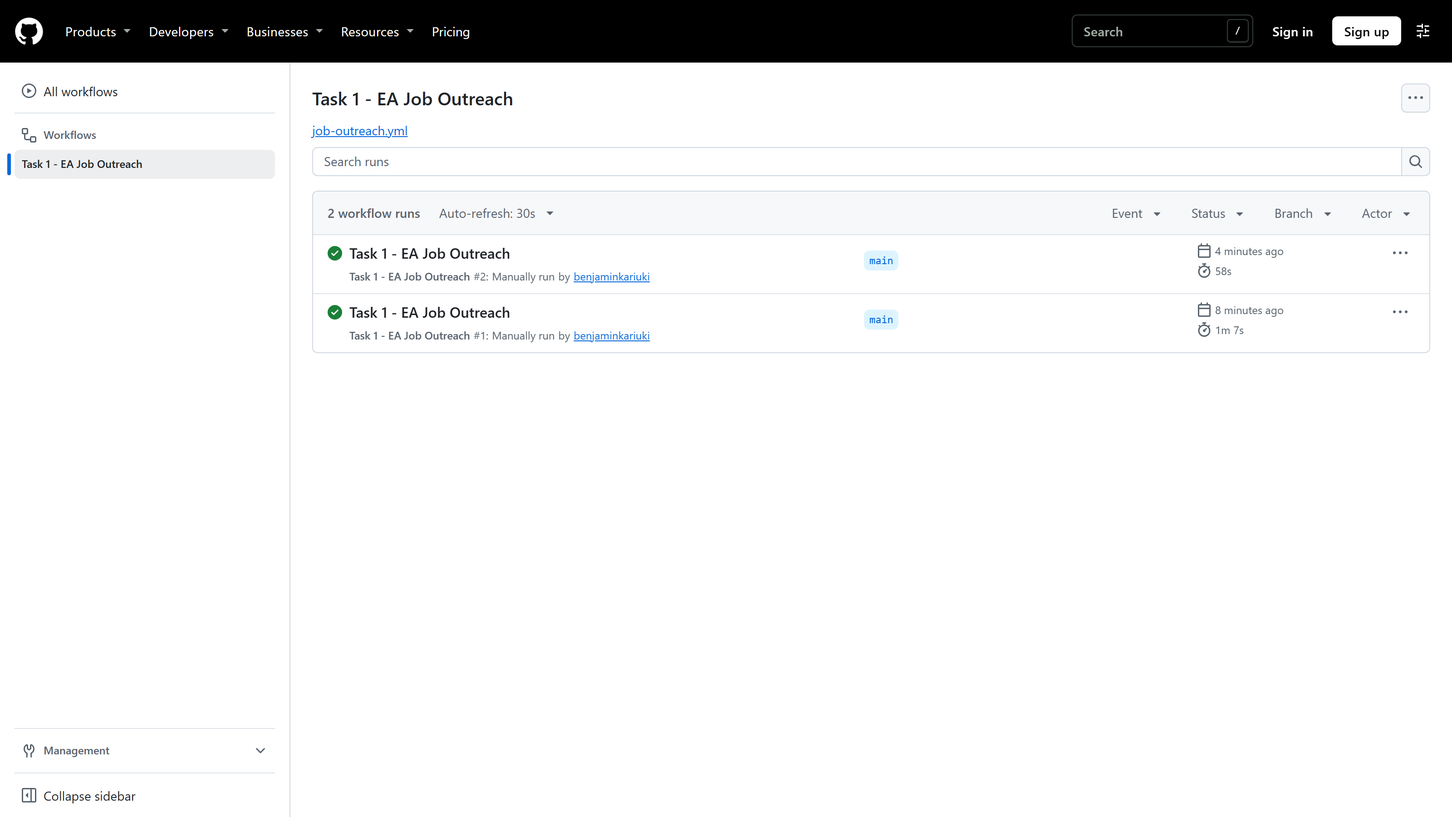
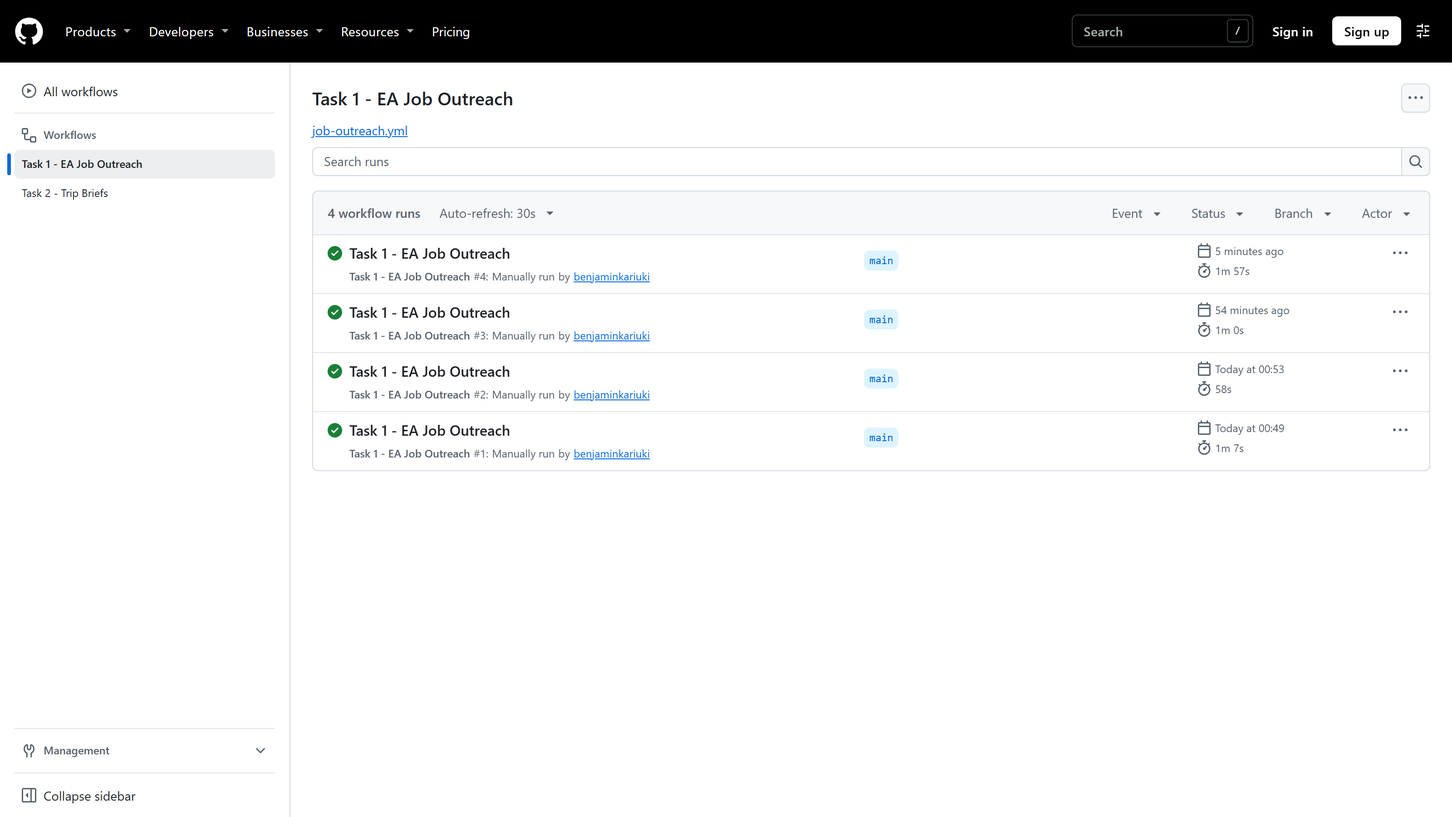
Docs: requirement-by-requirement check, READMEs (23 trips, contact), refreshed screenshots, PDF source

diff --git a/submission/submission.html b/submission/submission.html
@@ -4,118 +4,188 @@
 <meta charset="utf-8">
 <title>RAY Case Study – Benjamin Kariuki</title>
 <style>
-  @page { size: A4; margin: 16mm 15mm 16mm 15mm; }
+  @page { size: A4; margin: 15mm 15mm 16mm 15mm; }
   :root { --ink:#1b2333; --muted:#5b6475; --line:#dfe3ea; --accent:#1f4e8c; --soft:#f3f6fa; --ok:#1d7a46; }
   * { box-sizing: border-box; }
-  body { font-family: "Segoe UI", Inter, Arial, sans-serif; color: var(--ink); font-size: 10.2pt; line-height: 1.45; margin: 0; }
+  body { font-family: "Segoe UI", Inter, Arial, sans-serif; color: var(--ink); font-size: 10pt; line-height: 1.45; margin: 0; }
   h1 { font-size: 21pt; margin: 0 0 2px; letter-spacing: -0.3px; }
-  h2 { font-size: 14.5pt; margin: 0 0 8px; padding-bottom: 5px; border-bottom: 2px solid var(--accent); color: var(--accent); }
-  h3 { font-size: 11pt; margin: 14px 0 6px; }
+  h2 { font-size: 15pt; margin: 0 0 8px; padding-bottom: 5px; border-bottom: 2.5px solid var(--accent); color: var(--accent); }
+  h3 { font-size: 11pt; margin: 13px 0 5px; }
   p { margin: 0 0 7px; }
   a { color: var(--accent); text-decoration: none; word-break: break-all; }
-  .sub { color: var(--muted); margin-bottom: 14px; }
-  .links { background: var(--soft); border: 1px solid var(--line); border-radius: 8px; padding: 10px 14px; margin: 10px 0 16px; }
-  .links table td { padding: 3px 8px 3px 0; vertical-align: top; }
-  .links td:first-child { font-weight: 600; white-space: nowrap; width: 150px; }
-  table.grid { width: 100%; border-collapse: collapse; margin: 4px 0 10px; font-size: 9.4pt; }
+  code { font-family: Consolas, monospace; font-size: 8.8pt; background: #eef1f6; padding: 0 3px; border-radius: 3px; }
+  .sub { color: var(--muted); margin-bottom: 12px; }
+  .box { background: var(--soft); border: 1px solid var(--line); border-radius: 8px; padding: 9px 13px; margin: 8px 0 12px; }
+  .links td { padding: 2.5px 8px 2.5px 0; vertical-align: top; }
+  .links td:first-child { font-weight: 600; white-space: nowrap; width: 175px; }
+  table.grid { width: 100%; border-collapse: collapse; margin: 4px 0 10px; font-size: 8.9pt; }
   table.grid th { background: var(--ink); color: #fff; text-align: left; padding: 5px 7px; font-weight: 600; }
-  table.grid td { border-bottom: 1px solid var(--line); padding: 5px 7px; vertical-align: top; }
+  table.grid td { border-bottom: 1px solid var(--line); padding: 4.5px 7px; vertical-align: top; }
   table.grid tr:nth-child(even) td { background: #fafbfd; }
   .tick { color: var(--ok); font-weight: 700; }
   ul { margin: 0 0 8px 18px; padding: 0; } li { margin-bottom: 3px; }
   .shot { width: 100%; border: 1px solid var(--line); border-radius: 6px; margin: 4px 0 2px; }
-  .cap { color: var(--muted); font-size: 8.6pt; margin-bottom: 10px; }
+  .cap { color: var(--muted); font-size: 8.5pt; margin-bottom: 10px; }
+  .two { display: flex; gap: 12px; align-items: flex-start; }
+  .two > div { flex: 1; }
+  .phone { width: 100%; max-width: 230px; border: 1px solid var(--line); border-radius: 14px; }
   .stats { display: flex; gap: 8px; margin: 6px 0 10px; }
-  .stat { flex: 1; border: 1px solid var(--line); border-radius: 8px; padding: 7px 9px; background: var(--soft); }
-  .stat b { display: block; font-size: 15pt; color: var(--accent); }
-  .stat span { font-size: 8.6pt; color: var(--muted); }
-  .msg { white-space: pre-wrap; font-size: 8.9pt; background: var(--soft); border-left: 3px solid var(--accent); padding: 8px 10px; border-radius: 4px; }
+  .stat { flex: 1; border: 1px solid var(--line); border-radius: 8px; padding: 6px 9px; background: var(--soft); }
+  .stat b { display: block; font-size: 14pt; color: var(--accent); }
+  .stat span { font-size: 8.4pt; color: var(--muted); }
+  .flow { font-family: Consolas, monospace; font-size: 8.6pt; background: #f7f9fc; border: 1px solid var(--line); border-radius: 6px; padding: 8px 10px; white-space: pre; line-height: 1.5; }
   .page-break { break-before: page; }
   h2, h3 { break-after: avoid; }
-  tr, .shot, .stats, .msg, li { break-inside: avoid; }
+  tr, .shot, .stats, .flow, .box, li, .two { break-inside: avoid; }
   .muted { color: var(--muted); }
 </style>
 </head>
 <body>
 
 <h1>RAY – AI Automation Engineer Case Study</h1>
-<div class="sub">Benjamin Kariuki · November 2026</div>
+<div class="sub">Benjamin Kariuki · <a href="mailto:benjaminleyian50@gmail.com">benjaminleyian50@gmail.com</a> · November 2026</div>
 
-<div class="links">
+<div class="box links">
   <table>
     <tr><td>Code repository</td><td><a href="https://github.com/benjaminkariuki/ray-ai-automation-case-study">github.com/benjaminkariuki/ray-ai-automation-case-study</a></td></tr>
     <tr><td>Task 1 – Google Sheet</td><td><a href="https://docs.google.com/spreadsheets/d/1GwAt8R3_O-h6ivZ_CT_8yD6GMIdybyf2-YgscTQ9hRI">docs.google.com/spreadsheets/d/1GwAt8R3_O-h6ivZ_CT_8yD6GMIdybyf2-YgscTQ9hRI</a></td></tr>
-    <tr><td>Task 1 – n8n workflow export</td><td><a href="https://github.com/benjaminkariuki/ray-ai-automation-case-study/blob/main/task1-job-outreach/workflow/job-outreach-workflow.json">task1-job-outreach/workflow/job-outreach-workflow.json</a></td></tr>
-    <tr><td>Task 1 – README / user guide</td><td><a href="https://github.com/benjaminkariuki/ray-ai-automation-case-study/tree/main/task1-job-outreach">task1-job-outreach/README.md</a></td></tr>
-    <tr><td>Task 1 – Sample output</td><td><a href="https://github.com/benjaminkariuki/ray-ai-automation-case-study/tree/main/task1-job-outreach/sample-output">task1-job-outreach/sample-output</a> (CSV + JSON)</td></tr>
-    <tr><td>Task 2 – Notion</td><td class="muted">Added in the next section</td></tr>
+    <tr><td>Task 1 – Run history</td><td><a href="https://github.com/benjaminkariuki/ray-ai-automation-case-study/actions/workflows/job-outreach.yml">GitHub Actions: daily runs at 06:00 UTC</a></td></tr>
+    <tr><td>Task 1 – README</td><td><a href="https://github.com/benjaminkariuki/ray-ai-automation-case-study/tree/main/task1-job-outreach">task1-job-outreach/README.md</a></td></tr>
+    <tr><td>Task 1 – Sample output</td><td><a href="https://github.com/benjaminkariuki/ray-ai-automation-case-study/tree/main/task1-job-outreach/sample-output/latest">sample-output/latest</a> (console log, JSON, CSV of the newest run)</td></tr>
+    <tr><td>Task 2 – Notion (public)</td><td><a href="NOTION_PUBLIC_URL">NOTION_PUBLIC_URL_TEXT</a></td></tr>
+    <tr><td>Task 2 – README</td><td><a href="https://github.com/benjaminkariuki/ray-ai-automation-case-study/tree/main/task2-travel-planner">task2-travel-planner/README.md</a></td></tr>
+    <tr><td>Requirement checklist</td><td><a href="https://github.com/benjaminkariuki/ray-ai-automation-case-study/blob/main/REQUIREMENTS_CHECK.md">REQUIREMENTS_CHECK.md</a>: every line of the brief, how it's met, where to verify it</td></tr>
   </table>
 </div>
 
 <h2>Task 1 – Executive Assistant Job Outreach Automation</h2>
 
 <h3>What I built</h3>
-<p>I built an <b>n8n workflow</b>, self-hosted on Azure with HTTPS. It runs <b>every day at 06:00 UTC</b>:</p>
+<p>A <b>Python pipeline</b>, run <b>every day at 06:00 UTC by GitHub Actions</b>, so no server of our own is needed. Each run:</p>
 <ul>
-  <li>It pulls Executive Assistant and Admin Assistant postings from the public APIs of three job boards: <b>Himalayas, RemoteOK and Jobicy</b>. LinkedIn is not used.</li>
-  <li>An LLM (via <b>OpenRouter</b>, free models) checks that each posting is <b>remote, English-speaking and relevant</b>, and that it isn't a staffing agency.</li>
-  <li>A second LLM call writes a <b>personalised outreach email</b> for each match.</li>
-  <li>Everything goes into a <b>Google Sheet that sales reps use as their dashboard</b>.</li>
+  <li><b>Searches three job boards</b> (Himalayas, RemoteOK and Jobicy) through their official public APIs. LinkedIn is not used.</li>
+  <li><b>Checks each new posting with an LLM</b>: is it remote, English-speaking and relevant to an Executive or Admin Assistant? A job must pass all three to be kept.</li>
+  <li><b>Writes a personalised outreach email</b> for each match.</li>
+  <li><b>Fills a Google Sheet</b> that sales reps use as their dashboard.</li>
 </ul>
-<p>Filters, AI models and prompts are all <b>edited in the Sheet</b>, so tone can be tested without touching the workflow.</p>
+<p>Search terms, filters, AI models and prompts are all edited <b>in the Sheet</b>, so tone can be tested without touching code.</p>
 
-<img class="shot" src="../task1-job-outreach/docs/images/n8n-workflow.png" alt="n8n workflow">
-<div class="cap">The n8n workflow (33 nodes, 4 colour-coded stages): trigger and settings, fetch and filter, AI check and outreach, log and save.</div>
+<div class="flow">GitHub Actions (daily 06:00 UTC, or "Run workflow")  →  python -m job_outreach
+  1  Read Settings + Prompts + already-processed URLs from the Google Sheet
+  2  Fetch: Himalayas · RemoteOK · Jobicy   →  every posting gets title, company, location, description, URL, languages
+  3  Rule filter: title keywords · excluded companies/agencies · max age · duplicates        (no AI cost)
+  4  AI check per new job  →  JSON {remote, English, relevant, agency, languages, reason}
+  5  AI outreach email for each job that passes all three
+  6  Write Leads + Rejected, then the Run Log row  ·  save JSON / CSV / console log  ·  verify the live Sheet
+  AI: OpenRouter (primary)  ──fails or hits its limit──►  Cloudflare Workers AI (backup)  ──both fail──►  retried next run</div>
 
-<h3 class="page-break">How each requirement is met</h3>
+<h3>Requirements, as written in the brief</h3>
 <table class="grid">
-  <tr><th style="width:24%">Requirement</th><th>How it's met</th></tr>
-  <tr><td><span class="tick">✓</span> Compliant, non-LinkedIn source</td><td>Three official public APIs (Himalayas, RemoteOK, Jobicy), with no HTML scraping. Each lead links to the original posting and names its source, as the boards' terms ask.</td></tr>
-  <tr><td><span class="tick">✓</span> Fields collected and stored</td><td>Job Title, Company, Location, Description, URL and Language Requirements, plus Source and Date Posted. Stored in the Sheet and as a <b>JSON file per run</b>; CSV exports are in the repo.</td></tr>
-  <tr><td><span class="tick">✓</span> Filter and validate (all 3)</td><td>A keyword, company and age pre-filter runs first. Then the LLM returns strict JSON: <code>is_remote</code>, <code>is_english</code>, <code>is_relevant</code>, <code>is_agency</code> and a reason. Only jobs passing all three checks are kept. Rejections are logged with the reason so they can be audited.</td></tr>
-  <tr><td><span class="tick">✓</span> Personalised LLM message</td><td>Each email cites specific duties or tools from that posting. The prompt allows facts about the company only from the posting, and facts about us only from the "About us" setting.</td></tr>
-  <tr><td><span class="tick">✓</span> Interchangeable prompt</td><td>Prompts live in the Sheet's <b>Prompts</b> tab. Changing <code>Settings → outreach_prompt</code> (for example <code>v1_warm</code> → <code>v2_direct</code>) switches the tone on the next run, and each lead records the <b>Prompt Used</b>.</td></tr>
-  <tr><td><span class="tick">✓</span> Google Sheets columns</td><td>The Leads tab has the 6 required columns in order, then Language, Source, Dates, Prompt Used, <b>Status</b> (a dropdown) and Notes.</td></tr>
-  <tr><td><span class="tick">✓</span> Scheduling</td><td>An n8n Schedule Trigger runs daily at 06:00 UTC on an always-on Azure VM. There's also a manual Execute button.</td></tr>
-  <tr><td><span class="tick">✓</span> README / user guide</td><td>Covers install (existing n8n, or one-command Azure deploy), running, changing filters and prompts, troubleshooting, and a guide for sales reps. A short guide is also built into the Sheet.</td></tr>
+  <tr><th style="width:30%">Brief</th><th>How it's met</th></tr>
+  <tr><td><span class="tick">✓</span> Compliant, non-LinkedIn job board</td><td>3 official public APIs, with no HTML scraping. Each row keeps the original URL and source name (the boards ask for a link back), and requests are paced.</td></tr>
+  <tr><td><span class="tick">✓</span> Collect title, company, location, description, URL and language requirements for each posting</td><td>All six fields for <b>every</b> scraped posting. Language requirements come from rules for every posting and are refined by the AI for checked jobs.</td></tr>
+  <tr><td><span class="tick">✓</span> Store in a structured format</td><td>Each run saves <b>JSON</b> (every posting and AI decision), <b>CSV</b> (all postings, leads, rejections) and a console <b>log</b>, plus the Google Sheet.</td></tr>
+  <tr><td><span class="tick">✓</span> Remote + English + relevant; keep only postings meeting all three</td><td>The LLM returns strict JSON with a reason. Only all-three passes become leads; the rest go to the <b>Rejected</b> tab with Yes/No per check. Staffing and VA agencies (competitors) are also excluded, which is configurable.</td></tr>
+  <tr><td><span class="tick">✓</span> Genuinely personalised message per posting</td><td>Each message cites duties, tools or details from that posting. Facts about us come only from the Sheet's "About us" setting, so nothing is invented.</td></tr>
+  <tr><td><span class="tick">✓</span> Easily interchangeable prompt</td><td>Prompts live in the Sheet's <b>Prompts</b> tab, and changing <code>Settings → outreach_prompt</code> switches them. Each lead records <b>Prompt Used</b>; both <code>v1_warm</code> and <code>v2_direct</code> were tested live.</td></tr>
+  <tr><td><span class="tick">✓</span> Google Sheet columns</td><td>The 6 required columns come first, in order, then Language, Source, dates, Prompt Used, AI Model, <b>Status</b> (a dropdown) and Notes.</td></tr>
+  <tr><td><span class="tick">✓</span> Daily or weekly schedule</td><td>GitHub Actions, daily at 06:00 UTC; one edit makes it weekly. A "Run workflow" button runs it on demand.</td></tr>
+  <tr><td><span class="tick">✓</span> README: install, run, filters and prompt, troubleshooting, sales rep guide</td><td>All covered, plus a 5-minute evaluator guide. A short guide is also built into the Sheet.</td></tr>
 </table>
 
-<h3>Results from live test runs</h3>
+<div class="page-break"></div>
+<h3>Deliverables</h3>
+<table class="grid">
+  <tr><th style="width:30%">Deliverable</th><th>Where</th></tr>
+  <tr><td>Source code: scrape, validate, LLM, Sheets</td><td><code>sources.py</code> · <code>ai.py</code> + <code>prompts/</code> · <code>ai.py</code> · <code>sheet.py</code> + <code>setup_sheet.py</code>, in <code>task1-job-outreach/</code></td></tr>
+  <tr><td>Sample data output (CSV/JSON or console)</td><td>All three, in <code>sample-output/latest/</code>, refreshed automatically after every run</td></tr>
+  <tr><td>Scheduling setup</td><td><code>.github/workflows/job-outreach.yml</code>, documented in README section 5</td></tr>
+  <tr><td>README</td><td><code>task1-job-outreach/README.md</code></td></tr>
+  <tr><td>Populated Google Sheet</td><td>The link on page 1: leads, rejections with reasons, and run history</td></tr>
+</table>
+
+<h3>Results and testing</h3>
 <div class="stats">
-  <div class="stat"><b>264–359</b><span>postings fetched per run</span></div>
-  <div class="stat"><b>~55</b><span>pass the keyword filter</span></div>
-  <div class="stat"><b>15</b><span>new jobs checked by AI per run (configurable)</span></div>
-  <div class="stat"><b>10 leads</b><span>written in one run (GitLab, Pearson, Thrivent …)</span></div>
+  <div class="stat"><b>~340</b><span>postings fetched per run (3 boards)</span></div>
+  <div class="stat"><b>37</b><span>leads written, each with a personalised email</span></div>
+  <div class="stat"><b>36</b><span>rejections, each with a reason</span></div>
+  <div class="stat"><b>12/12</b><span>live Sheet checks pass after every run</span></div>
 </div>
-<img class="shot" src="../task1-job-outreach/docs/images/sheet-leads.png" alt="Leads tab">
-<div class="cap">The Leads tab in the Google Sheet: required columns, the AI-written message, and a Status dropdown for the sales rep.</div>
-
-<h3>Example of a generated message</h3>
-<div class="msg">Subject: GitLab Office of the CFO support
-
-I noticed you're looking for an Executive Assistant to support multiple Finance leaders across time zones, manage travel and expenses in Navan, and maintain shared Office of the CFO resources in Slack and Google Workspace. That mix of calendar complexity, policy-driven expense reconciliation, and cross-functional coordination is exactly what our assistants handle daily. …
-
-Would a 15-minute call this week be useful to see if we are a fit?</div>
-
-<h3>Key design decisions</h3>
 <ul>
-  <li><b>Cheap filter first, AI second.</b> Keyword rules remove about 85% of postings before any LLM call, so the workflow runs inside OpenRouter's free tier. A per-run cap protects the quota.</li>
-  <li><b>Agency detection.</b> Many remote EA postings come from VA and staffing agencies, which are competitors, not leads. They're excluded both by name and by the AI.</li>
-  <li><b>Reliability.</b> Jobs already in the Sheet are skipped, so there are no duplicates and no repeat AI cost. If an AI call fails (rate limit, outage), the job isn't saved and is retried automatically on the next run. A fallback model takes over when the main model is busy, and each job board fails independently of the others.</li>
-  <li><b>Transparency.</b> The <b>Rejected</b> tab shows Yes/No for each check with the AI's reason. The <b>Run Log</b> tab shows how many jobs were fetched, filtered, checked, added and errored on each run.</li>
-  <li><b>Editable by non-technical users.</b> Search terms, filters, models, sender details and prompts are all Sheet cells.</li>
+  <li><b>12 offline unit tests</b> (filtering, language detection, parsing, formatting, AI failover) run before every scheduled run.</li>
+  <li><b><code>verify_sheet.py</code></b> checks the live Sheet after every run: columns, no blanks, no duplicates, sources, personalised and unique messages, rejection logic, freshness. It needs no login, so anyone can run it.</li>
+  <li><b>Tested live:</b>
+    <ul>
+      <li>OpenRouter's limit ran out mid-test, and Cloudflare took over with 0 errors.</li>
+      <li>The prompt was swapped from the Sheet.</li>
+      <li>Duplicates were skipped.</li>
+      <li>Dry run.</li>
+    </ul>
+  </li>
+  <li><b>Problems found and fixed during testing:</b>
+    <ul>
+      <li>The model invented details (a language skill, tool expertise).</li>
+      <li>An incomplete AI answer caused a false rejection; it's now retried instead.</li>
+      <li>"Must work Eastern Time hours" was wrongly judged non-remote.</li>
+    </ul>
+  </li>
 </ul>
+<img class="shot" src="../task1-job-outreach/docs/images/sheet-leads.png" alt="Leads tab">
+<div class="cap">The Leads tab: the six required columns first, then the AI-written message, language requirements, source, prompt used, AI model and a Status dropdown for the sales rep.</div>
 
-<h3>Process notes</h3>
-<p class="muted">
-  Code-node JavaScript is kept as readable files in <code>workflow/code/</code> and assembled into the importable workflow by <code>build_workflow.py</code>. <code>setup_sheet.py</code> builds the formatted Sheet in one command.
-  While testing, I tightened the prompts after the model invented details: once a language skill, once that our assistants already knew a client's tools. I also clarified that a time-zone requirement still counts as remote.
-  Free-tier models are occasionally rate-limited. The Run Log records this, and affected jobs are retried automatically.
-</p>
+<h3>How to verify Task 1 in 5 minutes</h3>
+<ol style="margin:0 0 8px 18px;padding:0">
+  <li>Open the Sheet. In <b>Leads</b>, compare 2–3 messages with their Job Posting URL; each is specific to its posting.</li>
+  <li><b>Rejected</b> shows why each job was dropped. <b>Prompts</b> and <b>Settings</b> show what's configurable. <b>Run Log</b> shows the daily runs.</li>
+  <li>In the repo, open <code>task1-job-outreach/sample-output/latest/</code> for the newest run's console log, JSON and CSV.</li>
+  <li>Optional: run <code>python task1-job-outreach/scripts/verify_sheet.py</code>; expect 12/12 PASS.</li>
+</ol>
+<p class="muted"><b>Process note:</b> the first version was an n8n workflow on a self-hosted Azure server. It worked, and its testing produced most of the fixes above. I moved it to Python on GitHub Actions so nothing depends on a server or cloud credits staying alive during the evaluation. Every run's logs are recorded.</p>
 
 <div class="page-break"></div>
 <h2>Task 2 – Executive Travel Planner (Notion)</h2>
-<p class="muted">To be completed.</p>
+
+<h3>What I built</h3>
+<p>The page <b>"Executive Travel Planner – Benjamin Kariuki"</b> is published to the web, view-only. It has:</p>
+<ul>
+  <li>A short <b>guide</b> for the EA and the founder.</li>
+  <li><b>One Trips database</b>, populated with <b>23 sample trips to Europe and the USA</b>: 7 Done, 1 In-Progress, 15 Planned.</li>
+  <li><b>4 saved views.</b></li>
+  <li>An <b>auto-generated Trip Brief</b> inside every trip.</li>
+</ul>
+<p>The workspace was built with the Notion API (Python), so it's reproducible with one command.</p>
+
+<table class="grid">
+  <tr><th style="width:30%">Brief</th><th>How it's met</th></tr>
+  <tr><td><span class="tick">✓</span> Single Trips database, one record per trip</td><td>One <b>Trips</b> database; every trip is one record.</td></tr>
+  <tr><td><span class="tick">✓</span> Trip name, who is traveling, date range</td><td><b>Trip</b>, <b>Traveler</b>, <b>Travel Dates</b> (range), plus Status, Destination, Purpose and a <b>Countdown</b> formula ("15 days to go", "✈ Travelling now").</td></tr>
+  <tr><td><span class="tick">✓</span> Flights, hotels, addresses, confirmations, meetings, notes</td><td>Flights (with PNR), Hotel, Hotel Address, Hotel Confirmation, Ground Transport, Visa / Entry and Visa Notes, an <b>Itinerary</b> with one line per event (meetings, transfers, dinners), and Notes.</td></tr>
+  <tr><td><span class="tick">✓</span> Trip Brief: auto-generated, shareable</td><td>A <b>✈ Trip Brief</b> in every trip page, written automatically from the trip's fields. It refreshes within 15 minutes of any edit (GitHub Actions + Notion API).</td></tr>
+  <tr><td><span class="tick">✓</span> Chronological timeline of key events</td><td><b>📅 Timeline</b>: every event sorted by date and time and grouped by day, with icons (✈ 🚗 🏨 🤝 🍽 🎤) and confirmation numbers.</td></tr>
+  <tr><td><span class="tick">✓</span> Space to attach documents (tickets, visas)</td><td>The <b>Documents</b> files field (sample e-ticket, hotel confirmation and insurance PDFs attached), listed in the brief, plus a <b>📂 Extra files &amp; notes</b> area that's never overwritten.</td></tr>
+  <tr><td><span class="tick">✓</span> Emergency / primary contact info</td><td>A red <b>🆘</b> box near the top of every brief: primary contact (the EA), emergency contact and hotel.</td></tr>
+  <tr><td><span class="tick">✓</span> Timeline/calendar view of upcoming trips</td><td><b>Upcoming – Timeline</b> (hides Done trips) and <b>Calendar</b>.</td></tr>
+  <tr><td><span class="tick">✓</span> Overview grouped by status</td><td>A <b>By status</b> board with columns Planned / In-Progress / Done.</td></tr>
+  <tr><td><span class="tick">✓</span> Share to web, titled "Executive Travel Planner – {Your Name}"</td><td>Published, view-only: "Executive Travel Planner – Benjamin Kariuki".</td></tr>
+</table>
+
+TASK2_SCREENSHOTS
+
+<h3>Design choices (the optional note)</h3>
+<ul>
+  <li><b>One database, structured fields.</b> The EA fills in plain fields and never formats anything. The itinerary is one line per event (<code>2026-11-20 21:30 | Flight | BA178 JFK → LHR | PNR ABC123</code>), which is quick to type and easy to sort.</li>
+  <li><b>A generated brief instead of a static template.</b> A Notion template fills a page once and goes stale. Here the brief is rebuilt from the fields whenever the trip changes, so the founder never sees an outdated plan. Lines in the wrong format appear in a ⚠ box rather than being lost.</li>
+  <li><b>Founder-first layout.</b> Where and when come first, then who to call, then the day-by-day plan, then the hotel with a Google Maps link, transport, visa status and documents. Only headings, bullets and callouts are used (no wide tables), so it reads well on a phone.</li>
+  <li><b>Status that drives the views.</b> Planned → In-Progress → Done moves cards on the board. The timeline hides finished trips, and the countdown shows what's next.</li>
+  <li><b>Tested.</b>
+    <ul>
+      <li>4 unit tests.</li>
+      <li>Live build: 23 trips with 23 complete briefs, each checked for timeline, contacts, stay, visa and documents; 0 schedule conflicts.</li>
+      <li>Editing one trip rebuilds only its brief.</li>
+      <li>EA notes survive rebuilds.</li>
+    </ul>
+  </li>
+</ul>
 
 </body>
 </html>

diff --git a/REQUIREMENTS_CHECK.md b/REQUIREMENTS_CHECK.md
@@ -1,0 +1,58 @@
+# Requirements check: every line of the brief
+
+Each requirement is quoted from the case-study brief, followed by how it's met and where to verify it.
+Status: ✅ met, tested live on 8–9 November 2026.
+
+**Links:**
+- Repository: https://github.com/benjaminkariuki/ray-ai-automation-case-study
+- Google Sheet: https://docs.google.com/spreadsheets/d/1GwAt8R3_O-h6ivZ_CT_8yD6GMIdybyf2-YgscTQ9hRI
+- Notion: see the [Task 2 README](task2-travel-planner/README.md) or the submission PDF
+
+---
+
+## Task 1 – Executive Assistant Job Outreach Automation
+
+| # | Brief says | How it is met | Verify | |
+|---|---|---|---|---|
+| 1 | "automatically search job platforms (excluding LinkedIn) for relevant postings" | Daily search of **Himalayas, RemoteOK and Jobicy**. LinkedIn is never used. | [sources.py](task1-job-outreach/job_outreach/sources.py); Sheet → *Source* column | ✅ |
+| 2 | "verify key criteria (remote work, English requirement, role relevance)" | An LLM returns strict JSON (`is_remote`, `is_english`, `is_relevant`) with a reason. | Sheet → **Rejected** tab (Yes/No for each check, plus the reason) | ✅ |
+| 3 | "generate tailored outreach messages using an LLM" | A second LLM call per lead, based on that posting's details. | Sheet → *LLM-Generated Outreach Message* | ✅ |
+| 4 | "save everything to a Google Sheet that a sales rep can use as a dashboard" | **Leads** tab with a Status dropdown, colours, filters and Notes; a **How to Use** tab; a **Run Log**. | The Google Sheet | ✅ |
+| 5 | "Build a scraper … pick at least one compliant, non-LinkedIn job board (respect its terms of service, or use available APIs)" | **3 official public JSON APIs**, no HTML scraping. Each row keeps the original URL and its source name (the boards ask for attribution and a link back). Requests are paced (1 s between pages). | [sources.py](task1-job-outreach/job_outreach/sources.py) | ✅ |
+| 6 | "Collect for each posting: Job Title, Company Name, Location, Job Description, Job Posting URL, and any language requirements" | Every scraped posting gets all six fields. **Language requirements** are extracted by rules for every posting, and refined by the AI for checked jobs. | [sample-output/latest/](task1-job-outreach/sample-output/latest/) → `*-all-postings.csv` | ✅ |
+| 7 | "Store the results in a structured format (CSV, JSON, or a database)" | Each run writes **JSON** (every posting plus every AI decision), **CSVs** (all postings, leads, rejections) and a console **log**. Results also go to the Google Sheet. | [sample-output/](task1-job-outreach/sample-output/) | ✅ |
+| 8 | "automatically decide from each description whether the job is remote, English-speaking, and relevant to an Executive/Admin Assistant" | The validation prompt is applied to each description (the first 6,000 characters). An incomplete AI answer is retried rather than treated as a rejection. | [validation_prompt.md](task1-job-outreach/prompts/validation_prompt.md), [ai.py](task1-job-outreach/job_outreach/ai.py) | ✅ |
+| 9 | "Only keep postings that meet all three" | `is_lead = remote and english and relevant` (plus a configurable staffing-agency exclusion, since agencies are competitors). Everything else goes to Rejected. | [pipeline.py](task1-job-outreach/job_outreach/pipeline.py); `verify_sheet.py` check "Every rejection failed a check" | ✅ |
+| 10 | "generate a genuinely personalized outreach message per posting" | Each message cites duties, tools or team details from that posting. The AI may only state facts about us from `sender_offer`. | `verify_sheet.py`: "37/37 messages reference the specific posting" | ✅ |
+| 11 | "The prompt must be easily interchangeable so tone/wording can be tested without rebuilding the workflow" | Prompts live in the Sheet's **Prompts** tab. Changing **Settings → outreach_prompt** switches the prompt on the next run, with no code change. Each lead records **Prompt Used**. | Leads → *Prompt Used* shows `v1_warm` and `v2_direct` (tested live) | ✅ |
+| 12 | "Save to Google Sheets — with columns: Job Posting URL, Job Title, Company Name, Location, Job Description, LLM-Generated Outreach Message" | Exactly these 6 columns come first, in this order. Tracking columns follow. | `verify_sheet.py`: "Required columns, in order" | ✅ |
+| 13 | "schedule the process to run daily or weekly" | GitHub Actions runs **daily at 06:00 UTC**. Changing one line makes it weekly. | [job-outreach.yml](.github/workflows/job-outreach.yml); Sheet → Run Log | ✅ |
+| 14 | "README/user guide covering install, how to run, how to adjust filters and the LLM prompt, basic troubleshooting, and how a sales rep uses the Sheet" | README sections 5, 5, 4, 4, 6 and 3 respectively, plus a 5-minute evaluator guide. | [task1-job-outreach/README.md](task1-job-outreach/README.md) | ✅ |
+| D1 | Deliverable: "Source code (scrape, validate, LLM, Sheets)" | `sources.py` / `filters.py`, `ai.py` + prompts, `ai.py`, and `sheet.py` + `setup_sheet.py` | [job_outreach/](task1-job-outreach/job_outreach/) | ✅ |
+| D2 | Deliverable: "sample data output (CSV/JSON or console)" | All three: CSV, JSON and the console `.log`, refreshed after every run | [sample-output/](task1-job-outreach/sample-output/) | ✅ |
+| D3 | Deliverable: "the scheduling setup (or clear documentation of it)" | The workflow file plus README section 5 | [job-outreach.yml](.github/workflows/job-outreach.yml) | ✅ |
+| D4 | Deliverable: "the README" | ✅ | [README](task1-job-outreach/README.md) | ✅ |
+| D5 | Deliverable: "the populated Google Sheet" | 37 leads, 36 rejections and the run history | Google Sheet link above | ✅ |
+
+**Testing.** There are 12 offline unit tests (filtering, language detection, parsing, formatting and AI failover); they run before every scheduled run. The live end-to-end runs are on GitHub Actions. After each run, `verify_sheet.py` checks the live Sheet; the latest result is 12/12. Details are in [TEST_REPORT.md](task1-job-outreach/docs/TEST_REPORT.md).
+
+---
+
+## Task 2 – Executive Travel Planner (Notion)
+
+| # | Brief says | How it is met | Verify | |
+|---|---|---|---|---|
+| 1 | "log trip details, view a clear timeline per journey, and generate a shareable, mobile-friendly Trip Brief" | A Trips database, plus a timeline inside every brief and timeline/calendar views; the brief is generated automatically. | Notion page | ✅ |
+| 2 | "Trips Database — one record per trip" (single-database structure) | One **Trips** database. Each trip is one record, with 23 sample trips across Europe and the USA. | Notion → *All trips* view | ✅ |
+| 3 | "capturing: trip name, who is traveling, date range" | **Trip** (title), **Traveler**, **Travel Dates** (range) | Any trip | ✅ |
+| 4 | "all essential details (flights, hotels, addresses, confirmations, meetings, notes)" | **Flights**, **Hotel**, **Hotel Address**, **Hotel Confirmation**, flight PNRs and other confirmations, meetings in **Itinerary**, **Notes**, plus Ground Transport, Visa / Entry and Visa Notes | Any trip | ✅ |
+| 5 | "Trip Brief template — an auto-generated, shareable summary per trip" | Every trip page holds a **✈ Trip Brief**, written automatically from its fields and refreshed within 15 minutes of any edit (GitHub Actions). | Open *London — Investor Roadshow* | ✅ |
+| 6 | "a chronological timeline of key events" | **📅 Timeline**: itinerary events sorted by date and time and grouped by day, with icons and confirmation numbers | Any brief | ✅ |
+| 7 | "space to attach documents (tickets, visas)" | The **Documents** files field (3 SAMPLE PDFs attached to each trip), listed in the brief, plus an **📂 Extra files & notes** area that's never overwritten | Any trip | ✅ |
+| 8 | "clear emergency/primary contact info" | A red **🆘** box near the top of every brief: primary contact (the EA, benjaminleyian50@gmail.com), emergency contact and hotel | Any brief | ✅ |
+| 9 | "Saved views — at least a timeline/calendar view of upcoming trips" | **Upcoming – Timeline** (Planned and In-Progress trips only) and **Calendar** | Notion views | ✅ |
+| 10 | "an overview grouped by trip status (Planned / In-Progress / Done)" | The **By status** board, grouped by a Status property with exactly these three options | Notion views | ✅ |
+| 11 | "Notion 'Share to web' link (anyone with the link can view)" | Published to the web, view-only | Link in the PDF | ✅ |
+| 12 | "titled 'Executive Travel Planner – {Your Name}'" | **Executive Travel Planner – Benjamin Kariuki** | Page title | ✅ |
+| 13 | "everything is easy to find and the Trip Brief is founder-ready" | A short guide at the top for the EA and the founder. Briefs lead with where/when, then who to call, then the day-by-day plan, using phone-friendly blocks only. | Notion page | ✅ |
+| 14 | "Optional bonus: a short note … explaining your design choices" | "Design" section of the Task 2 README, and the PDF | [task2-travel-planner/README.md](task2-travel-planner/README.md) | ✅ |

diff --git a/task2-travel-planner/README.md b/task2-travel-planner/README.md
@@ -2,7 +2,7 @@
 
 [![Task 2 - Trip Briefs](https://github.com/benjaminkariuki/ray-ai-automation-case-study/actions/workflows/trip-briefs.yml/badge.svg)](https://github.com/benjaminkariuki/ray-ai-automation-case-study/actions/workflows/trip-briefs.yml)
 
-A Notion workspace where an Executive Assistant logs every trip in **one database**. Each trip gets an **automatically generated Trip Brief**: a mobile-friendly summary the founder can use before and during travel.
+A Notion workspace where an Executive Assistant logs every trip in **one database**. It's populated with **23 sample trips to Europe and the USA** for a New York-based founder. Each trip gets an **automatically generated Trip Brief**: a mobile-friendly summary the founder can use before and during travel.
 
 | | |
 |---|---|
@@ -19,7 +19,7 @@ A Notion workspace where an Executive Assistant logs every trip in **one databas
 | 1 | **Single Trips database** | The **Trips** table on the main page: one record per trip |
 | 2 | Trip name, who is traveling, date range | The **Trip**, **Traveler** and **Travel Dates** fields |
 | 3 | Flights, hotels, addresses, confirmations, meetings, notes | **Flights**, **Hotel**, **Hotel Address**, **Hotel Phone**, **Hotel Confirmation**, **Ground Transport**, **Itinerary** (meetings and every timed event) and **Notes** |
-| 4 | **Trip Brief**, auto-generated per trip | Open any trip (e.g. *London — Investor Roadshow*) and read the **✈ Trip Brief** section |
+| 4 | **Trip Brief**, auto-generated per trip | Open any trip (e.g. *London — Investor Roadshow*, In-Progress this week) and read the **✈ Trip Brief** section |
 | 5 | Chronological timeline of key events | Brief → **📅 Timeline**: grouped by day and sorted by time, with an icon for each event type |
 | 6 | Space to attach documents (tickets, visas) | The **Documents** field (file uploads), listed in the brief under **📎 Documents**, plus the **📂 Extra files & notes** area that's never overwritten |
 | 7 | Emergency and primary contact info | The red **🆘** box near the top of every brief |
@@ -98,7 +98,7 @@ Open the published page on any device, and tap a trip on the **Timeline** or **C
    cp .env.example .env          # set NOTION_TOKEN and NOTION_PAGE_URL
    python -m planner build --with-samples
    ```
-   This creates the guide, the Trips database, the 4 views, 5 sample trips and their briefs, and saves the ids to `workspace.json`.
+   This creates the guide, the Trips database, the 4 views, the 23 sample trips (Europe and USA) and their briefs, and saves the ids to `workspace.json`. Add `--reset` to rebuild the page from scratch.
 4. **Share → Publish → Publish to web** in Notion. This is the one step the API can't do.
 5. Optional, for automatic briefs: add the GitHub secret `NOTION_TOKEN` and the variable `NOTION_DATA_SOURCE_ID`. The schedule is in `.github/workflows/trip-briefs.yml`. To refresh by hand, run `python -m planner briefs` (or add `--all`).
 
@@ -108,9 +108,14 @@ Tests: `python -m pytest -q tests` covers itinerary parsing and sorting, the bri
 | Test | Result |
 |---|---|
 | Offline unit tests | ✅ 4/4 |
-| Build via the API: database, status groups, formula, 4 views, 5 trips, 5 briefs | ✅ |
+| Build via the API: database, status groups, formula, 4 views, 23 trips, 23 complete briefs (each checked for timeline, 🆘 contacts, stay, visa, documents) | ✅ |
+| Sample itineraries: every event falls between arrival and the flight home (0 conflicts in 23 trips) | ✅ |
+| Only Europe and USA destinations; statuses: 7 Done, 1 In-Progress, 15 Planned | ✅ |
 | Countdown formula: "15 days to go", "✈ Travelling now", "✓ Completed" | ✅ |
 | Timeline sorted by date and time and grouped by day; bad lines kept in a ⚠ box | ✅ |
 | Nothing changed → 0 briefs rebuilt; one trip edited → only that brief rebuilt | ✅ |
 | An EA note under "📂 Extra files & notes" survives a rebuild | ✅ |
 | GitHub Actions run of the refresher | ✅ |
+
+### Sample data
+23 trips (September 2026 – April 2027): 7 Done, 1 In-Progress (London, this week) and 15 Planned. Hotels and addresses are real; people, partner companies, booking numbers and `555` phone numbers are fictional. The attached PDFs are watermarked **SAMPLE**. The EA contact on every trip is Benjamin Kariuki (benjaminleyian50@gmail.com).

diff --git a/README.md b/README.md
@@ -1,10 +1,12 @@
 # RAY – AI Automation Engineer Case Study
 
-**Benjamin Kariuki**
+**Benjamin Kariuki** · benjaminleyian50@gmail.com
+
+**Requirement-by-requirement check of both tasks:** [REQUIREMENTS_CHECK.md](REQUIREMENTS_CHECK.md)
 
 | Task | What it is | Start here |
 |---|---|---|
 | **1. EA Job Outreach Automation** | A Python pipeline, scheduled daily on GitHub Actions. It finds remote, English-speaking Executive and Admin Assistant jobs, checks them with AI, writes a personalised outreach email for each match, and fills a Google Sheet dashboard. | [task1-job-outreach/README.md](task1-job-outreach/README.md) |
-| **2. Executive Travel Planner (Notion)** | A Notion workspace: a trips database, timeline and status views, and a trip brief for the founder. | [task2-travel-planner/README.md](task2-travel-planner/README.md) |
+| **2. Executive Travel Planner (Notion)** | A Notion workspace: one Trips database (23 sample trips, Europe and USA), timeline, calendar and status views, and an auto-generated, mobile-friendly Trip Brief per trip. | [task2-travel-planner/README.md](task2-travel-planner/README.md) |
 
-[![Task 1 - EA Job Outreach](https://github.com/benjaminkariuki/ray-ai-automation-case-study/actions/workflows/job-outreach.yml/badge.svg)](https://github.com/benjaminkariuki/ray-ai-automation-case-study/actions/workflows/job-outreach.yml)
+[![Task 2 - Trip Briefs](https://github.com/benjaminkariuki/ray-ai-automation-case-study/actions/workflows/trip-briefs.yml/badge.svg)](https://github.com/benjaminkariuki/ray-ai-automation-case-study/actions/workflows/trip-briefs.yml) [![Task 1 - EA Job Outreach](https://github.com/benjaminkariuki/ray-ai-automation-case-study/actions/workflows/job-outreach.yml/badge.svg)](https://github.com/benjaminkariuki/ray-ai-automation-case-study/actions/workflows/job-outreach.yml)
